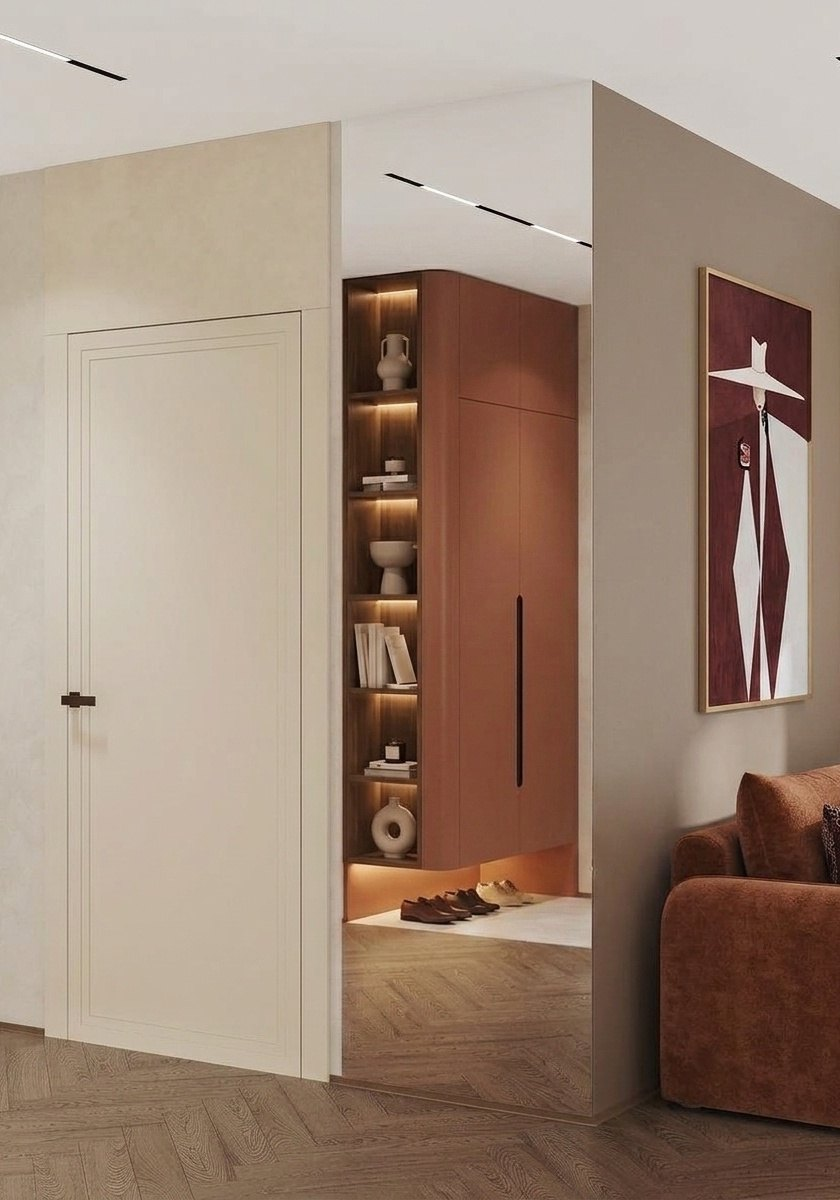
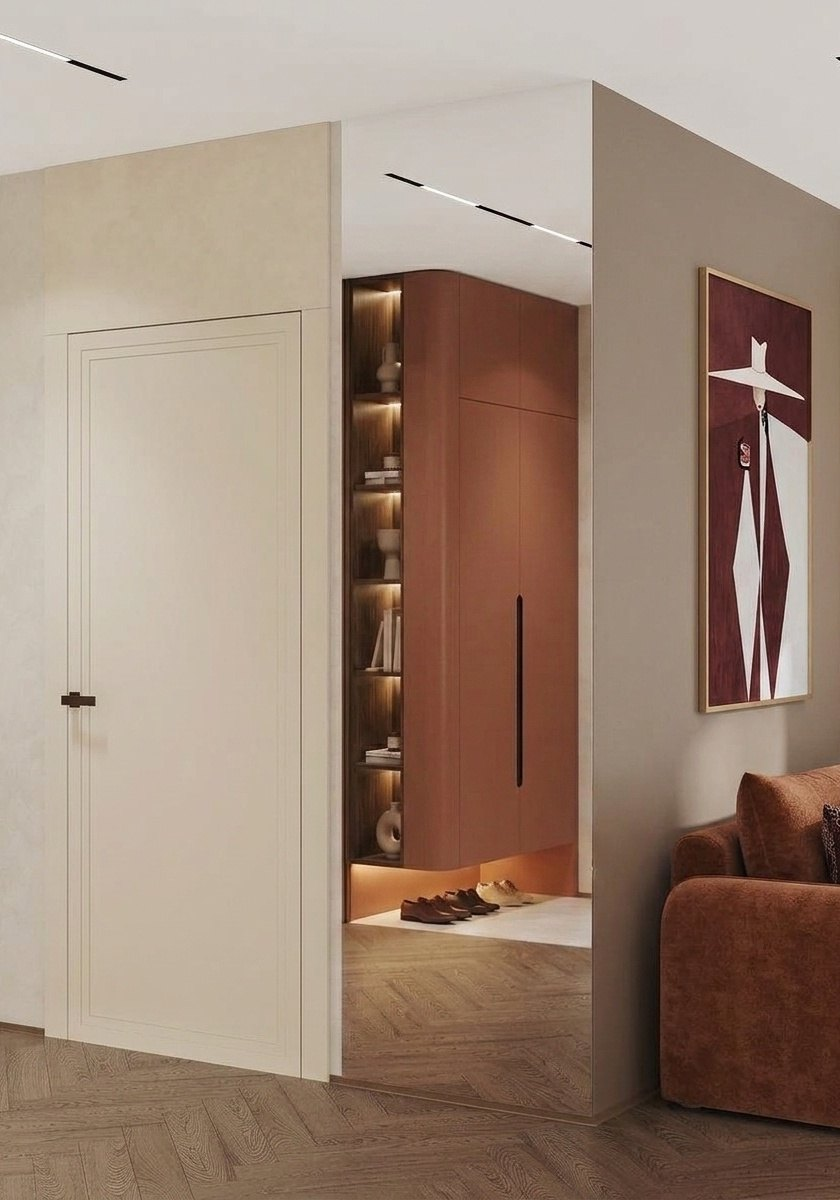
Update before/after page

Changed region(s): [[0.4024, 0.2158, 0.5262, 0.7708]]

diff --git a/index.html b/index.html
@@ -29,5 +29,5 @@ figure.none div{aspect-ratio:7/10;display:grid;place-items:center;text-align:cen
 footer{margin-top:48px;color:var(--muted);font-size:13px}
 </style></head><body><div class="wrap">
 <header><nav><a href="#s0">Прихожая</a><a href="#s1">Кухня</a><a href="#s2">Гостиная</a><a href="#s3">Лоджия</a></nav></header>
-<section id="s0"><article><div class="row c2"><figure class=""><a href="img/r04_before.jpg?v=d2aad428" target="_blank" rel="noopener"><img src="img/r04_before.jpg?v=d2aad428" width="896" height="1280" loading="lazy" alt="До"></a></figure><figure class="after"><a href="img/r04_after.jpg?v=b234c771" target="_blank" rel="noopener"><img src="img/r04_after.jpg?v=b234c771" width="840" height="1200" loading="lazy" alt="После"></a></figure></div></article><article><div class="row c2"><figure class=""><a href="img/r03_before.jpg?v=a96b9aa0" target="_blank" rel="noopener"><img src="img/r03_before.jpg?v=a96b9aa0" width="896" height="1280" loading="lazy" alt="До"></a></figure><figure class="after"><a href="img/r03_after.jpg?v=c74b02dd" target="_blank" rel="noopener"><img src="img/r03_after.jpg?v=c74b02dd" width="840" height="1200" loading="lazy" alt="После"></a></figure></div></article><article><div class="row c2"><figure class=""><a href="img/r01_before.jpg?v=dbdebadb" target="_blank" rel="noopener"><img src="img/r01_before.jpg?v=dbdebadb" width="896" height="1280" loading="lazy" alt="До"></a></figure><figure class="after"><a href="img/r01_after.jpg?v=204db643" target="_blank" rel="noopener"><img src="img/r01_after.jpg?v=204db643" width="840" height="1200" loading="lazy" alt="После"></a></figure></div></article><article><div class="row c2"><figure class=""><a href="img/r02_before.jpg?v=b3a890f0" target="_blank" rel="noopener"><img src="img/r02_before.jpg?v=b3a890f0" width="896" height="1280" loading="lazy" alt="До"></a></figure><figure class="after"><a href="img/r02_after.jpg?v=552e196b" target="_blank" rel="noopener"><img src="img/r02_after.jpg?v=552e196b" width="840" height="1200" loading="lazy" alt="После"></a></figure></div></article><article><div class="row c2"><figure class=""><a href="img/r05_before.jpg?v=f2f74aa7" target="_blank" rel="noopener"><img src="img/r05_before.jpg?v=f2f74aa7" width="896" height="1280" loading="lazy" alt="До"></a></figure><figure class="after"><a href="img/r05_after.jpg?v=a1d44f43" target="_blank" rel="noopener"><img src="img/r05_after.jpg?v=a1d44f43" width="840" height="1200" loading="lazy" alt="После"></a></figure></div></article><article><div class="row c3"><figure class=""><a href="img/r11_before.jpg?v=d5624231" target="_blank" rel="noopener"><img src="img/r11_before.jpg?v=d5624231" width="1280" height="913" loading="lazy" alt="До"></a></figure><figure class="after"><a href="img/r11_after_a.jpg?v=afa37d16" target="_blank" rel="noopener"><img src="img/r11_after_a.jpg?v=afa37d16" width="1200" height="856" loading="lazy" alt="После · А"></a></figure><figure class="after"><a href="img/r11_after_b.jpg?v=5f5ae376" target="_blank" rel="noopener"><img src="img/r11_after_b.jpg?v=5f5ae376" width="1200" height="856" loading="lazy" alt="После · Б"></a></figure></div></article></section><section id="s1"><article><div class="row c3"><figure class=""><a href="img/r12_before.jpg?v=e1ffd2d9" target="_blank" rel="noopener"><img src="img/r12_before.jpg?v=e1ffd2d9" width="1280" height="913" loading="lazy" alt="До"></a></figure><figure class="after"><a href="img/r12_after_a.jpg?v=8c737aca" target="_blank" rel="noopener"><img src="img/r12_after_a.jpg?v=8c737aca" width="1200" height="856" loading="lazy" alt="После · А"></a></figure><figure class="after"><a href="img/r12_after_b.jpg?v=a833b039" target="_blank" rel="noopener"><img src="img/r12_after_b.jpg?v=a833b039" width="1200" height="856" loading="lazy" alt="После · Б"></a></figure></div></article><article><div class="row c3"><figure class=""><a href="img/r18_before.jpg?v=160fcec4" target="_blank" rel="noopener"><img src="img/r18_before.jpg?v=160fcec4" width="896" height="1280" loading="lazy" alt="До"></a></figure><figure class="after"><a href="img/r18_after_a.jpg?v=69e01ac8" target="_blank" rel="noopener"><img src="img/r18_after_a.jpg?v=69e01ac8" width="840" height="1200" loading="lazy" alt="После · А"></a></figure><figure class="after"><a href="img/r18_after_b.jpg?v=ca09bf10" target="_blank" rel="noopener"><img src="img/r18_after_b.jpg?v=ca09bf10" width="840" height="1200" loading="lazy" alt="После · Б"></a></figure></div></article><article><div class="row c3"><figure class=""><a href="img/r08_before.jpg?v=896baa4d" target="_blank" rel="noopener"><img src="img/r08_before.jpg?v=896baa4d" width="896" height="1280" loading="lazy" alt="До"></a></figure><figure class="after"><a href="img/r08_after_a.jpg?v=27b8f579" target="_blank" rel="noopener"><img src="img/r08_after_a.jpg?v=27b8f579" width="840" height="1200" loading="lazy" alt="После · А"></a></figure><figure class="after"><a href="img/r08_after_b.jpg?v=6ab69017" target="_blank" rel="noopener"><img src="img/r08_after_b.jpg?v=6ab69017" width="840" height="1200" loading="lazy" alt="После · Б"></a></figure></div></article><article><div class="row c2"><figure class=""><a href="img/r17_before.jpg?v=d2fcf2c9" target="_blank" rel="noopener"><img src="img/r17_before.jpg?v=d2fcf2c9" width="896" height="1280" loading="lazy" alt="До"></a></figure><figure class="after"><a href="img/r17_after.jpg?v=2a59277b" target="_blank" rel="noopener"><img src="img/r17_after.jpg?v=2a59277b" width="840" height="1200" loading="lazy" alt="После"></a></figure></div></article><article><div class="row c2"><figure class=""><a href="img/r20_before.jpg?v=0d49d9b6" target="_blank" rel="noopener"><img src="img/r20_before.jpg?v=0d49d9b6" width="896" height="1280" loading="lazy" alt="До"></a></figure><figure class="after"><a href="img/r20_after.jpg?v=c6f0c91a" target="_blank" rel="noopener"><img src="img/r20_after.jpg?v=c6f0c91a" width="1048" height="1498" loading="lazy" alt="После"></a></figure></div></article></section><section id="s2"><article><div class="row c2"><figure class=""><a href="img/r13_before.jpg?v=7de5bcc9" target="_blank" rel="noopener"><img src="img/r13_before.jpg?v=7de5bcc9" width="1280" height="913" loading="lazy" alt="До"></a></figure><figure class="after"><a href="img/r13_after.jpg?v=594e82d2" target="_blank" rel="noopener"><img src="img/r13_after.jpg?v=594e82d2" width="1200" height="856" loading="lazy" alt="После"></a></figure></div></article><article><div class="row c2"><figure class=""><a href="img/r09_before.jpg?v=d4b7bef2" target="_blank" rel="noopener"><img src="img/r09_before.jpg?v=d4b7bef2" width="896" height="1280" loading="lazy" alt="До"></a></figure><figure class="after"><a href="img/r09_after.jpg?v=7251cb75" target="_blank" rel="noopener"><img src="img/r09_after.jpg?v=7251cb75" width="840" height="1200" loading="lazy" alt="После"></a></figure></div></article><article><div class="row c2"><figure class=""><a href="img/r14_before.jpg?v=76f71464" target="_blank" rel="noopener"><img src="img/r14_before.jpg?v=76f71464" width="1280" height="913" loading="lazy" alt="До"></a></figure><figure class="after"><a href="img/r14_after.jpg?v=d0d5d754" target="_blank" rel="noopener"><img src="img/r14_after.jpg?v=d0d5d754" width="1471" height="1049" loading="lazy" alt="После"></a></figure></div></article><article><div class="row c2"><figure class=""><a href="img/r10_before.jpg?v=9c72fb08" target="_blank" rel="noopener"><img src="img/r10_before.jpg?v=9c72fb08" width="896" height="1280" loading="lazy" alt="До"></a></figure><figure class="after"><a href="img/r10_after.jpg?v=38901355" target="_blank" rel="noopener"><img src="img/r10_after.jpg?v=38901355" width="840" height="1200" loading="lazy" alt="После"></a></figure></div></article><article><div class="row c2"><figure class=""><a href="img/r07_before.jpg?v=00190db2" target="_blank" rel="noopener"><img src="img/r07_before.jpg?v=00190db2" width="896" height="1280" loading="lazy" alt="До"></a></figure><figure class="after"><a href="img/r07_after.jpg?v=6c474cb4" target="_blank" rel="noopener"><img src="img/r07_after.jpg?v=6c474cb4" width="840" height="1200" loading="lazy" alt="После"></a></figure></div></article><article><div class="row c2"><figure class=""><a href="img/r06_before.jpg?v=6f5994c9" target="_blank" rel="noopener"><img src="img/r06_before.jpg?v=6f5994c9" width="896" height="1280" loading="lazy" alt="До"></a></figure><figure class="after"><a href="img/r06_after.jpg?v=d138c141" target="_blank" rel="noopener"><img src="img/r06_after.jpg?v=d138c141" width="840" height="1200" loading="lazy" alt="После"></a></figure></div></article></section><section id="s3"><article><div class="row c2"><figure class=""><a href="img/r15_before.jpg?v=3dd2a06e" target="_blank" rel="noopener"><img src="img/r15_before.jpg?v=3dd2a06e" width="896" height="1280" loading="lazy" alt="До"></a></figure><figure class="after"><a href="img/r15_after.jpg?v=02a09369" target="_blank" rel="noopener"><img src="img/r15_after.jpg?v=02a09369" width="840" height="1200" loading="lazy" alt="После"></a></figure></div></article><article><div class="row c2"><figure class=""><a href="img/r15b_before.jpg?v=92788110" target="_blank" rel="noopener"><img src="img/r15b_before.jpg?v=92788110" width="896" height="1280" loading="lazy" alt="До"></a></figure><figure class="after"><a href="img/r15b_after.jpg?v=a4c26874" target="_blank" rel="noopener"><img src="img/r15b_after.jpg?v=a4c26874" width="840" height="1200" loading="lazy" alt="После"></a></figure></div></article></section>
+<section id="s0"><article><div class="row c2"><figure class=""><a href="img/r04_before.jpg?v=d2aad428" target="_blank" rel="noopener"><img src="img/r04_before.jpg?v=d2aad428" width="896" height="1280" loading="lazy" alt="До"></a></figure><figure class="after"><a href="img/r04_after.jpg?v=b234c771" target="_blank" rel="noopener"><img src="img/r04_after.jpg?v=b234c771" width="840" height="1200" loading="lazy" alt="После"></a></figure></div></article><article><div class="row c2"><figure class=""><a href="img/r03_before.jpg?v=a96b9aa0" target="_blank" rel="noopener"><img src="img/r03_before.jpg?v=a96b9aa0" width="896" height="1280" loading="lazy" alt="До"></a></figure><figure class="after"><a href="img/r03_after.jpg?v=c74b02dd" target="_blank" rel="noopener"><img src="img/r03_after.jpg?v=c74b02dd" width="840" height="1200" loading="lazy" alt="После"></a></figure></div></article><article><div class="row c2"><figure class=""><a href="img/r01_before.jpg?v=dbdebadb" target="_blank" rel="noopener"><img src="img/r01_before.jpg?v=dbdebadb" width="896" height="1280" loading="lazy" alt="До"></a></figure><figure class="after"><a href="img/r01_after.jpg?v=204db643" target="_blank" rel="noopener"><img src="img/r01_after.jpg?v=204db643" width="840" height="1200" loading="lazy" alt="После"></a></figure></div></article><article><div class="row c2"><figure class=""><a href="img/r02_before.jpg?v=b3a890f0" target="_blank" rel="noopener"><img src="img/r02_before.jpg?v=b3a890f0" width="896" height="1280" loading="lazy" alt="До"></a></figure><figure class="after"><a href="img/r02_after.jpg?v=552e196b" target="_blank" rel="noopener"><img src="img/r02_after.jpg?v=552e196b" width="840" height="1200" loading="lazy" alt="После"></a></figure></div></article><article><div class="row c2"><figure class=""><a href="img/r05_before.jpg?v=f2f74aa7" target="_blank" rel="noopener"><img src="img/r05_before.jpg?v=f2f74aa7" width="896" height="1280" loading="lazy" alt="До"></a></figure><figure class="after"><a href="img/r05_after.jpg?v=a1d44f43" target="_blank" rel="noopener"><img src="img/r05_after.jpg?v=a1d44f43" width="840" height="1200" loading="lazy" alt="После"></a></figure></div></article><article><div class="row c3"><figure class=""><a href="img/r11_before.jpg?v=d5624231" target="_blank" rel="noopener"><img src="img/r11_before.jpg?v=d5624231" width="1280" height="913" loading="lazy" alt="До"></a></figure><figure class="after"><a href="img/r11_after_a.jpg?v=afa37d16" target="_blank" rel="noopener"><img src="img/r11_after_a.jpg?v=afa37d16" width="1200" height="856" loading="lazy" alt="После · А"></a></figure><figure class="after"><a href="img/r11_after_b.jpg?v=5f5ae376" target="_blank" rel="noopener"><img src="img/r11_after_b.jpg?v=5f5ae376" width="1200" height="856" loading="lazy" alt="После · Б"></a></figure></div></article></section><section id="s1"><article><div class="row c3"><figure class=""><a href="img/r12_before.jpg?v=e1ffd2d9" target="_blank" rel="noopener"><img src="img/r12_before.jpg?v=e1ffd2d9" width="1280" height="913" loading="lazy" alt="До"></a></figure><figure class="after"><a href="img/r12_after_a.jpg?v=8c737aca" target="_blank" rel="noopener"><img src="img/r12_after_a.jpg?v=8c737aca" width="1200" height="856" loading="lazy" alt="После · А"></a></figure><figure class="after"><a href="img/r12_after_b.jpg?v=a833b039" target="_blank" rel="noopener"><img src="img/r12_after_b.jpg?v=a833b039" width="1200" height="856" loading="lazy" alt="После · Б"></a></figure></div></article><article><div class="row c3"><figure class=""><a href="img/r18_before.jpg?v=160fcec4" target="_blank" rel="noopener"><img src="img/r18_before.jpg?v=160fcec4" width="896" height="1280" loading="lazy" alt="До"></a></figure><figure class="after"><a href="img/r18_after_a.jpg?v=69e01ac8" target="_blank" rel="noopener"><img src="img/r18_after_a.jpg?v=69e01ac8" width="840" height="1200" loading="lazy" alt="После · А"></a></figure><figure class="after"><a href="img/r18_after_b.jpg?v=ca09bf10" target="_blank" rel="noopener"><img src="img/r18_after_b.jpg?v=ca09bf10" width="840" height="1200" loading="lazy" alt="После · Б"></a></figure></div></article><article><div class="row c3"><figure class=""><a href="img/r08_before.jpg?v=896baa4d" target="_blank" rel="noopener"><img src="img/r08_before.jpg?v=896baa4d" width="896" height="1280" loading="lazy" alt="До"></a></figure><figure class="after"><a href="img/r08_after_a.jpg?v=27b8f579" target="_blank" rel="noopener"><img src="img/r08_after_a.jpg?v=27b8f579" width="840" height="1200" loading="lazy" alt="После · А"></a></figure><figure class="after"><a href="img/r08_after_b.jpg?v=6ab69017" target="_blank" rel="noopener"><img src="img/r08_after_b.jpg?v=6ab69017" width="840" height="1200" loading="lazy" alt="После · Б"></a></figure></div></article><article><div class="row c2"><figure class=""><a href="img/r17_before.jpg?v=d2fcf2c9" target="_blank" rel="noopener"><img src="img/r17_before.jpg?v=d2fcf2c9" width="896" height="1280" loading="lazy" alt="До"></a></figure><figure class="after"><a href="img/r17_after.jpg?v=2a59277b" target="_blank" rel="noopener"><img src="img/r17_after.jpg?v=2a59277b" width="840" height="1200" loading="lazy" alt="После"></a></figure></div></article><article><div class="row c2"><figure class=""><a href="img/r20_before.jpg?v=0d49d9b6" target="_blank" rel="noopener"><img src="img/r20_before.jpg?v=0d49d9b6" width="896" height="1280" loading="lazy" alt="До"></a></figure><figure class="after"><a href="img/r20_after.jpg?v=c6f0c91a" target="_blank" rel="noopener"><img src="img/r20_after.jpg?v=c6f0c91a" width="1048" height="1498" loading="lazy" alt="После"></a></figure></div></article></section><section id="s2"><article><div class="row c2"><figure class=""><a href="img/r13_before.jpg?v=7de5bcc9" target="_blank" rel="noopener"><img src="img/r13_before.jpg?v=7de5bcc9" width="1280" height="913" loading="lazy" alt="До"></a></figure><figure class="after"><a href="img/r13_after.jpg?v=594e82d2" target="_blank" rel="noopener"><img src="img/r13_after.jpg?v=594e82d2" width="1200" height="856" loading="lazy" alt="После"></a></figure></div></article><article><div class="row c2"><figure class=""><a href="img/r09_before.jpg?v=d4b7bef2" target="_blank" rel="noopener"><img src="img/r09_before.jpg?v=d4b7bef2" width="896" height="1280" loading="lazy" alt="До"></a></figure><figure class="after"><a href="img/r09_after.jpg?v=7251cb75" target="_blank" rel="noopener"><img src="img/r09_after.jpg?v=7251cb75" width="840" height="1200" loading="lazy" alt="После"></a></figure></div></article><article><div class="row c2"><figure class=""><a href="img/r14_before.jpg?v=76f71464" target="_blank" rel="noopener"><img src="img/r14_before.jpg?v=76f71464" width="1280" height="913" loading="lazy" alt="До"></a></figure><figure class="after"><a href="img/r14_after.jpg?v=d0d5d754" target="_blank" rel="noopener"><img src="img/r14_after.jpg?v=d0d5d754" width="1471" height="1049" loading="lazy" alt="После"></a></figure></div></article><article><div class="row c2"><figure class=""><a href="img/r10_before.jpg?v=9c72fb08" target="_blank" rel="noopener"><img src="img/r10_before.jpg?v=9c72fb08" width="896" height="1280" loading="lazy" alt="До"></a></figure><figure class="after"><a href="img/r10_after.jpg?v=38901355" target="_blank" rel="noopener"><img src="img/r10_after.jpg?v=38901355" width="840" height="1200" loading="lazy" alt="После"></a></figure></div></article><article><div class="row c2"><figure class=""><a href="img/r07_before.jpg?v=00190db2" target="_blank" rel="noopener"><img src="img/r07_before.jpg?v=00190db2" width="896" height="1280" loading="lazy" alt="До"></a></figure><figure class="after"><a href="img/r07_after.jpg?v=6c474cb4" target="_blank" rel="noopener"><img src="img/r07_after.jpg?v=6c474cb4" width="840" height="1200" loading="lazy" alt="После"></a></figure></div></article><article><div class="row c2"><figure class=""><a href="img/r06_before.jpg?v=6f5994c9" target="_blank" rel="noopener"><img src="img/r06_before.jpg?v=6f5994c9" width="896" height="1280" loading="lazy" alt="До"></a></figure><figure class="after"><a href="img/r06_after.jpg?v=1c238344" target="_blank" rel="noopener"><img src="img/r06_after.jpg?v=1c238344" width="840" height="1200" loading="lazy" alt="После"></a></figure></div></article></section><section id="s3"><article><div class="row c2"><figure class=""><a href="img/r15_before.jpg?v=3dd2a06e" target="_blank" rel="noopener"><img src="img/r15_before.jpg?v=3dd2a06e" width="896" height="1280" loading="lazy" alt="До"></a></figure><figure class="after"><a href="img/r15_after.jpg?v=02a09369" target="_blank" rel="noopener"><img src="img/r15_after.jpg?v=02a09369" width="840" height="1200" loading="lazy" alt="После"></a></figure></div></article><article><div class="row c2"><figure class=""><a href="img/r15b_before.jpg?v=92788110" target="_blank" rel="noopener"><img src="img/r15b_before.jpg?v=92788110" width="896" height="1280" loading="lazy" alt="До"></a></figure><figure class="after"><a href="img/r15b_after.jpg?v=a4c26874" target="_blank" rel="noopener"><img src="img/r15b_after.jpg?v=a4c26874" width="840" height="1200" loading="lazy" alt="После"></a></figure></div></article></section>
 </div></body></html>
